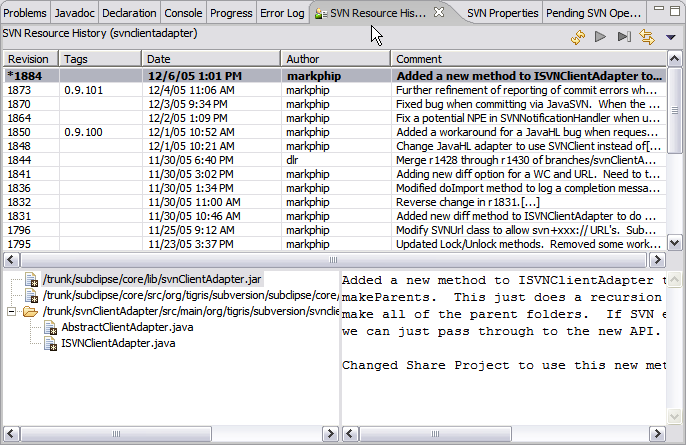
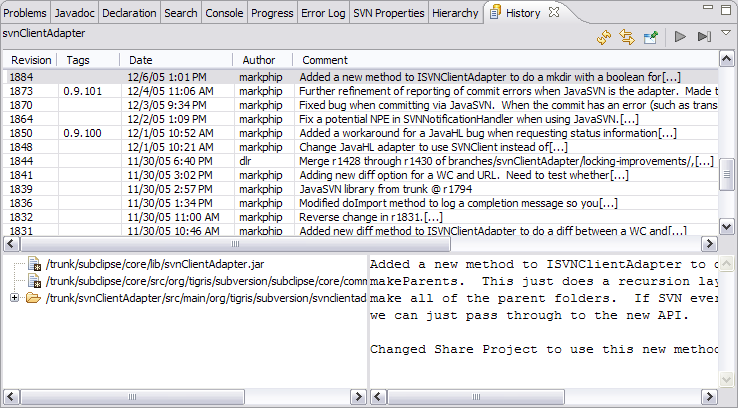
Update docs to reflect new History view

diff --git a/subclipse/doc/html/reference/svn-history-view.html b/subclipse/doc/html/reference/svn-history-view.html
@@ -3,15 +3,16 @@
 <head>
 <meta http-equiv="Content-Type" content="text/html; charset=iso-8859-1">
 <link rel="stylesheet" href="../book.css" charset="ISO-8859-1" type="text/css">
-<title>SVN Resource History View</title>
+<title>History View</title>
 </head>
 <body>
-<h1>SVN Resource History View</h1>
+<h1>History View</h1>
 <p>
-    This view is accessed via the <span class="menu">Team &gt; Show in Resource
-    History </span> context menu. Alternatively, to activate this view, choose <span class="menu">Window &gt; Open
-    View &gt; Other...</span> and select <span class="name">SVN</span> ... <span class="name">SVN
-    Resource History View</span>.
+    This view is accessed via the <span class="menu">Team &gt; Show History</span>
+    context menu.  Subclipse is using the common Team History view and framework provided
+    by Eclipse.  Another way to activate this view is to choose <span class="menu">Window &gt; Show
+    View &gt; Other...</span> and select <span class="name">Team</span> ... <span class="name">
+    History</span>.
 </p>
 <p>
     <img src="../images/resource-history.png">
@@ -98,7 +99,7 @@
     <dt><img src="../images/btn-linktoeditor.png" width="23" height="22"> Link
         with Editor</dt>
     <dd>
-        The <span class="name">SVN Resource History View</span> can be linked
+        The <span class="name">History View</span> can be linked
         with the current editor. If linked, the content if the revision table
         changes when you switch the resource being edited. Showing resource history
         may be a longer running operation since it must retrieve the history
@@ -110,8 +111,8 @@
     <dt><img src="../images/btn-options.png" width="18" height="22"> Options</dt>
     <dd>
         This command displays a menu of <a href="resource-history-view-options.html">view
-        options</a> to control the behaviour and display of the <span class="name">SVN
-        Resource History View</span> .
+        options</a> to control the behaviour and display of the <span class="name">
+        History View</span> .
     </dd>
 </dl>
 <h2>Context menu</h2>
@@ -193,7 +194,7 @@
     Related Tasks
 </p>
 <p>
-    <a href="../dailywork/branches.html">Branching and tagging</a>
+    <a href="../dailywork/branches.html">Branching and tagging</a><br>
     <a href="../reference/configure-tags.html">Configure Branches/Tags</a>
 </p>
 <p class="reference">

diff --git a/subclipse/doc/html/reference/svn-annotations.html b/subclipse/doc/html/reference/svn-annotations.html
@@ -38,17 +38,17 @@
             the <a href="glossary.html#head">head</a> revision.
     </li>
     <li>
-        The <a href="svn-history-view.html"><span class="name">SVN Resource History
+        The <a href="svn-history-view.html"><span class="name">History
         View</span></a> for the selected file.
     </li>
 </ul>
 <p>
-    The <span class="name">SVN Resource History View</span> and the view of the
+    The <span class="name">History View</span> and the view of the
     file contents are dynamically linked to the revision panel. <span class="action">Left
     clicking</span> an entry in the revision pane will highlight all of the lines
     that were modified in the file in the text viewer. In the same way, when
     a line in the text viewer is selected, the revision author will be highlighted
-    in the revision pane. The <span class="name">SVN Resource History View</span> is
+    in the revision pane. The <span class="name">History View</span> is
     automatically updated to provide the full details of each revision selected.
 </p>
 <p class="tasks">
@@ -63,7 +63,7 @@
 <p>
     <a href="svn-repository.html">SVN Repository Exploring Perspective</a><br>
     <a href="svn-repository-view.html">SVN Repository View</a><br>
-    <a href="svn-history-view.html">SVN Resource History View</a>
+    <a href="svn-history-view.html">History View</a>
 </p>
 </body>
 </html>

diff --git a/subclipse/doc/html/reference/svn-repository.html b/subclipse/doc/html/reference/svn-repository.html
@@ -14,17 +14,16 @@
   Exploring</span>.</p>
 <h2>Views</h2>
 <p>The perspective is comprised primarily of two views; the <span class="name">SVN
-    Repository view</span> and <span class="name">SVN Resource History view</span>.
+    Repository view</span> and <span class="name">History view</span>.
     The SVN Repository view shows the SVN repository locations that you have
-    defined to your workbench. The SVN Resource
-    History view
+    defined to your workbench. The History view
     is comprised of three individual panes and lists the revision history for
     a specific resource (file or folder) as it exists in the SVN repository.</p>
 <p class="tasks">Related Tasks</p>
 <p><a href="../gettingstarted/new-location.html">Creating a new Repository Location</a></p>
 <p class="reference">Related Reference</p>
 <p><a href="svn-repository-view.html">SVN Repository View</a><br>
-  <a href="svn-history-view.html">SVN Resource History View</a><br>
+  <a href="svn-history-view.html">History View</a><br>
   <a href="svn-annotations.html">SVN Annotate View</a> </p>
 </body>
 </html>

diff --git a/subclipse/doc/html/reference/svn-repository-view.html b/subclipse/doc/html/reference/svn-repository-view.html
@@ -23,7 +23,7 @@
         you have access to a range of repository operations, including:
 </p>
 <dl>
-    <dt>Resource History</dt>
+    <dt>History</dt>
     <dd>
         You can request to view the revision history for any file or folder in
             the repository.
@@ -117,10 +117,10 @@
     This menu option will evoke the <a href="../gettingstarted/new-location.html">Add
     a new SVN Repository</a> wizard.
 </p>
-<h3>Resource History </h3>
+<h3>History </h3>
 <p>
     This menu option will show the revision history for the selected file or
-        folder in the <a href="svn-history-view.html">SVN Resource History</a> view.
+        folder in the <a href="svn-history-view.html">History</a> view.
 </p>
 <h3>Create Unified Diff </h3>
 <p>
@@ -214,7 +214,7 @@
 </p>
 <p>
     <a href="svn-repository.html">SVN Repository Exploring Perspective</a><br>
-    <a href="svn-history-view.html">SVN Resource History View</a> <br>
+    <a href="svn-history-view.html">History View</a> <br>
     <a href="show-as-unified-diff.html">Create Unified Diff</a>
 </p>
 </body>

diff --git a/subclipse/doc/html/reference/resource-history-view-options.html b/subclipse/doc/html/reference/resource-history-view-options.html
@@ -3,10 +3,10 @@
 <head>
 <meta http-equiv="Content-Type" content="text/html; charset=iso-8859-1">
 <link rel="stylesheet" href="../book.css" charset="ISO-8859-1" type="text/css">
-<title>Resource History View Options</title>
+<title>History View Options</title>
 </head>
 <body>
-<h1>Resource History View Options</h1>
+<h1>History View Options</h1>
 <h2>Menu</h2>
 <p>
     <img src="../images/resource-history-options-menu.png" width="172" height="136">
@@ -73,7 +73,7 @@
 </p>
 <p>
     <a href="svn-repository-view.html">SVN Repository view</a><br>
-    <a href="svn-history-view.html">SVN Resource History view</a>
+    <a href="svn-history-view.html">History view</a>
 </p>
 </body>
 </html>

diff --git a/subclipse/doc/html/reference/show-in-history.html b/subclipse/doc/html/reference/show-in-history.html
@@ -4,14 +4,14 @@
 <head>
 <meta http-equiv="Content-Type" content="text/html; charset=iso-8859-1">
 <link rel="stylesheet" href="../book.css" charset="ISO-8859-1" type="text/css">		
-<title>Team &gt; Show in Resource History</title>
+<title>Team &gt; Show History</title>
 </head>
 
 <body>
 
-<h1>Team &gt; Show in Resource History</h1>
+<h1>Team &gt; Show History</h1>
 
-<p>This actions open the <a href="svn-history-view.html">SVN Resource History View</a>
+<p>This actions open the <a href="svn-history-view.html">History View</a>
 (if not already open) and displays the history of the currently selected resource.</p>
 
 </body>

diff --git a/subclipse/doc/html/reference/set-commit-properties.html b/subclipse/doc/html/reference/set-commit-properties.html
@@ -8,7 +8,7 @@
 <body>
 <h1>Set Commit Properties</h1>
 <p>
-    This option is launched from the <span class="name">SVN Resource History
+    This option is launched from the <span class="name">History
     View</span> via the <span class="menu">Set Commit Properties</span> option
     in the revision table context menu.
 </p>
@@ -43,7 +43,7 @@
 <p>
     <a href="commit.html">Commit</a><br>
     <a href="svn-repository-view.html">SVN Repository View</a><br>
-    <a href="svn-history-view.html">SVN Resource History View</a>
+    <a href="svn-history-view.html">History View</a>
 </p>
 </body>
 </html>

diff --git a/subclipse/doc/html/faq/subversion-mapping.html b/subclipse/doc/html/faq/subversion-mapping.html
@@ -120,8 +120,8 @@
         </tr>
         <tr>
             <td align="left" valign="top"><tt>log</tt></td>
-            <td align="left" valign="top"><a href="../reference/svn-history-view.html">SVN
-                    Resource History View</a></td>
+            <td align="left" valign="top"><a href="../reference/svn-history-view.html">
+                    History View</a></td>
             <td align="left" valign="top"></td>
         </tr>
         <tr>

diff --git a/subclipse/doc/html/reference/show-annotation.html b/subclipse/doc/html/reference/show-annotation.html
@@ -14,7 +14,7 @@
 <p>This actions switches to the SVN Repository Browsing perspective and
 shows the pristine version of the selected resource in editor viewer, alongside
 with the <a href="svn-annotations.html">SVN Annotate</a> View and the
-<a href="svn-history-view.html">SVN Resource History</a>  View.</p>
+<a href="svn-history-view.html">History</a>  View.</p>
 
 </body>
 </html>

diff --git a/subclipse/doc/html/reference/issuetracker.html b/subclipse/doc/html/reference/issuetracker.html
@@ -45,7 +45,7 @@ Many popular issue tracker systems can be integrated with using this approach.</
 <h3>Reference</h3>
 <p>
 <a href="../reference/commit.html">Team > Commit</a><br>
-<a href="../reference/svn-history-view.html">SVN Resource History View</a></p>
+<a href="../reference/svn-history-view.html">History View</a></p>
 
 </body>
 </html>

diff --git a/subclipse/doc/html/reference/configure-tags.html b/subclipse/doc/html/reference/configure-tags.html
@@ -51,7 +51,7 @@ revision_number,tag_name,relative_path,branch/tag
 
 <h2>History Browsing</h2>
 <p>
-	The Resource History View contains a column to show the tags for a revision.
+	The History View contains a column to show the tags for a revision.
 </p>
 <p>
 	<img src="../images/resource-history.png" alt="History" />
